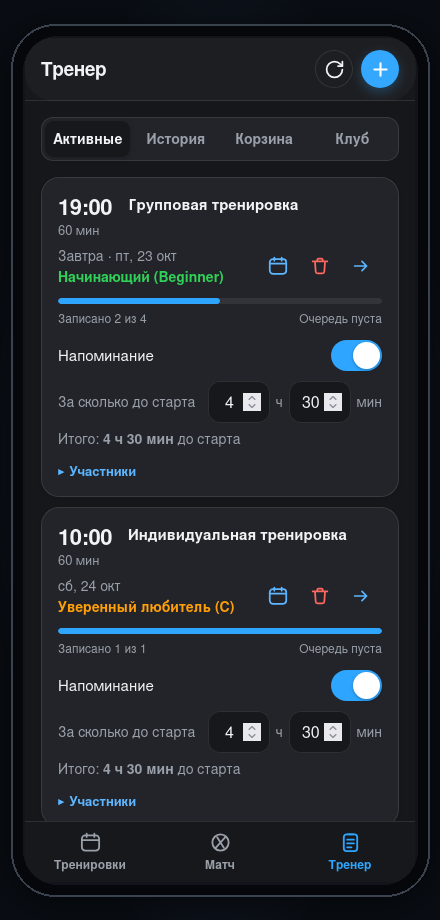
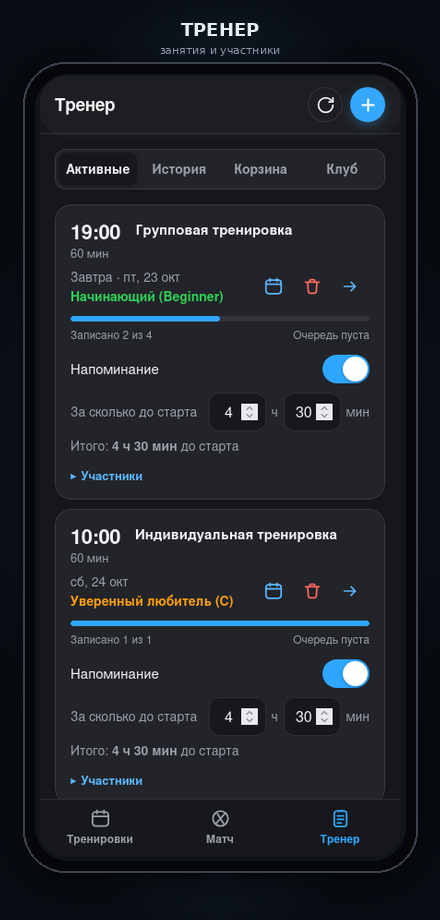
feat: add branded loading screen with squash quotes; polish screenshots

diff --git a/app/templates/base.html b/app/templates/base.html
@@ -50,6 +50,31 @@
     }
     .app { max-width: 520px; margin: 0 auto; min-height: 100vh; min-height: 100dvh; }
 
+    /* ===== Стартовый экран загрузки ===== */
+    .app-loader {
+      position: fixed; inset: 0; z-index: 100;
+      display: flex; flex-direction: column; align-items: center; justify-content: center;
+      gap: 16px; padding: 28px; text-align: center;
+      background: var(--bg); color: var(--text);
+      transition: opacity .3s ease, visibility .3s ease;
+    }
+    .app-loader.is-done { opacity: 0; visibility: hidden; pointer-events: none; }
+    .app-loader__brand {
+      font-size: 13px; font-weight: 800; letter-spacing: .2em;
+      color: var(--hint); text-transform: uppercase;
+    }
+    .app-loader__title { font-size: 20px; font-weight: 700; letter-spacing: -.02em; }
+    .app-loader__hint { max-width: 290px; font-size: 13.5px; line-height: 1.45; color: var(--hint); }
+    .app-loader__quote {
+      max-width: 330px; margin-top: 10px; padding-top: 18px;
+      border-top: 1px solid var(--separator);
+      font-size: 13.5px; line-height: 1.5; color: var(--text);
+    }
+    .app-loader__quote-author {
+      display: block; margin-top: 8px;
+      font-size: 12px; font-weight: 600; color: var(--hint);
+    }
+
     /* ===== Верхняя панель ===== */
     .app-header {
       position: sticky; top: 0; z-index: 20;
@@ -557,6 +582,25 @@
   </style>
 </head>
 <body>
+  <div class="app-loader" id="app-loader" role="status" aria-live="polite">
+    <div class="app-loader__brand">SQASSIT</div>
+    <span class="squash-loader" aria-hidden="true">
+      <svg class="squash-loader__ring" viewBox="0 0 44 44" fill="none">
+        <circle cx="22" cy="22" r="18" stroke="currentColor" stroke-opacity=".16" stroke-width="2"/>
+        <circle cx="22" cy="22" r="18" stroke="#ffd60a" stroke-width="2" stroke-linecap="round" stroke-dasharray="24 89"/>
+      </svg>
+      <span class="squash-loader__ball">
+        <span class="squash-loader__dot"></span>
+        <span class="squash-loader__dot"></span>
+      </span>
+    </span>
+    <div class="app-loader__title">Загружаем данные…</div>
+    <div class="app-loader__hint">Расписание, профиль и матчи — всё уже рядом.</div>
+    <div class="app-loader__quote" id="app-loader-quote" aria-live="polite">
+      <span id="app-loader-quote-text"></span>
+      <span class="app-loader__quote-author" id="app-loader-quote-author"></span>
+    </div>
+  </div>
   <div class="app">
     <header class="app-header">
       <h1 class="app-title">{% block header %}Сквош{% endblock %}</h1>
@@ -986,6 +1030,63 @@
         if (href === path || (href === '/' && path === '')) a.classList.add('is-active');
       });
     })();
+
+    // Проверенные короткие цитаты профессиональных игроков.
+    // Nicol David — Commonwealth Sport:
+    // https://www.commonwealthsport.com/news/4419908/where-are-they-now-nicol-david
+    // Ramy Ashour — Squash Player:
+    // https://squashplayermagazine.tumblr.com/post/64939226175/ramy-ashour-exclusive-egyptian-at-heart-of
+    // Ali Farag — World Squash:
+    // https://www.worldsquash.sport/squash-has-got-everything-world-no-1-ali-farag-on-squashs-olympic-inclusion/
+    // Mohamed ElShorbagy — SquashMad:
+    // https://squashmad.com/interviews/mohamed-elshorbagy-i-still-have-hunger-to-compete-with-squash-top-order/
+    const SQUASH_QUOTES = [
+      {
+        text: 'The Games gave me the belief that I could represent my country at the highest level. I hope to pass that feeling on to young athletes.',
+        author: 'Nicol David · Commonwealth Sport',
+      },
+      {
+        text: 'I want to show the squash world that you can be creative.',
+        author: 'Ramy Ashour · Squash Player',
+      },
+      {
+        text: "Squash has got everything. It's got all the skill sets you need. The stamina, the endurance, the technical ability, the mental challenge.",
+        author: 'Ali Farag · World Squash',
+      },
+      {
+        text: 'I still have hunger to compete with squash top order.',
+        author: 'Mohamed ElShorbagy · SquashMad',
+      },
+    ];
+    let quoteTimer = null;
+    let quoteIndex = Math.floor(Math.random() * SQUASH_QUOTES.length);
+    function showLoaderQuote() {
+      const text = document.getElementById('app-loader-quote-text');
+      const author = document.getElementById('app-loader-quote-author');
+      if (!text || !author) return;
+      const quote = SQUASH_QUOTES[quoteIndex % SQUASH_QUOTES.length];
+      text.textContent = '«' + quote.text + '»';
+      author.textContent = '— ' + quote.author;
+      quoteIndex++;
+    }
+    showLoaderQuote();
+    quoteTimer = setInterval(showLoaderQuote, 6500);
+
+    // Стартовый экран: прячем после первичной загрузки данных страницы.
+    const appLoaderStartedAt = Date.now();
+    function hideAppLoader() {
+      const loader = document.getElementById('app-loader');
+      if (!loader || loader.classList.contains('is-done')) return;
+      const delay = Math.max(0, 800 - (Date.now() - appLoaderStartedAt));
+      setTimeout(() => {
+        if (quoteTimer) clearInterval(quoteTimer);
+        loader.classList.add('is-done');
+        setTimeout(() => loader.remove(), 350);
+      }, delay);
+    }
+    window.hideAppLoader = hideAppLoader;
+    // Страховка: даже при сбое страничного скрипта не оставляем пустой экран.
+    setTimeout(hideAppLoader, 12000);
 
     // Общий профиль. Вкладка «Тренер» видна всем: игрок может оставить заявку.
     const APP = {

diff --git a/app/templates/coach.html b/app/templates/coach.html
@@ -1187,22 +1187,26 @@ window.PAGE_REFRESH = async () => {
 (async () => {
   await APP.ready;
   const me = APP.me;
-  if (!me) return;
+  if (!me) {
+    hideAppLoader();
+    return;
+  }
   applyRoleUi(me);
 
-  if (me.is_coach) {
-    loadView();
-    whenVisible('players-section', loadPlayers);
-    whenVisible('profile-section', loadProfile);
-    if (IS_MANAGER) {
-      // Реестр тренеров — маленький запрос. Грузим его сразу, а не ждём
-      // пересечения с viewport: иначе раздел выглядит пустым при скролле.
-      loadApplications();
-      document.getElementById('coaches-section').hidden = false;
-      loadCoaches();
+  try {
+    if (me.is_coach) {
+      const jobs = [loadView(), loadPlayers(), loadProfile()];
+      if (IS_MANAGER) {
+        // Реестр тренеров грузим сразу, не дожидаясь скролла.
+        document.getElementById('coaches-section').hidden = false;
+        jobs.push(loadApplications(), loadCoaches());
+      }
+      await Promise.allSettled(jobs);
+    } else {
+      await loadApplyStatus();
     }
-  } else {
-    loadApplyStatus();
+  } finally {
+    hideAppLoader();
   }
 })();
 </script>

diff --git a/app/templates/match.html b/app/templates/match.html
@@ -283,9 +283,16 @@ matchForm.addEventListener('submit', async (ev) => {
 window.PAGE_REFRESH = loadMatches;
 (async () => {
   await APP.ready;
-  if (!APP.me) return;
+  if (!APP.me) {
+    hideAppLoader();
+    return;
+  }
   document.getElementById('match-add').hidden = false;
-  loadMatches();
+  try {
+    await loadMatches();
+  } finally {
+    hideAppLoader();
+  }
 })();
 </script>
 {% endblock %}

diff --git a/app/templates/index.html b/app/templates/index.html
@@ -488,7 +488,9 @@ window.PAGE_REFRESH = async () => {
   await Promise.all([loadProfile(), loadSchedule()]);
 };
 
-loadProfile().then(maybeShowOnboarding);
-loadSchedule();
+Promise.allSettled([loadProfile(), loadSchedule()]).then(() => {
+  hideAppLoader();
+  setTimeout(maybeShowOnboarding, 350);
+});
 </script>
 {% endblock %}

diff --git a/tests/test_bot_handlers.py b/tests/test_bot_handlers.py
@@ -80,7 +80,7 @@ def test_web_app_url_keeps_existing_query(monkeypatch):
         "settings",
         replace(settings, webhook_base_url="https://example.test/app?x=1"),
     )
-    assert botmod._web_app_url() == "https://example.test/app?x=1&v=14"
+    assert botmod._web_app_url() == "https://example.test/app?x=1&v=15"
 
 
 def test_web_app_url_falls_back_to_telegram(monkeypatch):
@@ -127,7 +127,7 @@ def test_cmd_start_escapes_name_and_hides_id(monkeypatch):
     assert "&lt;Иван&gt;" in text
     assert "<Иван>" not in text
     assert "1001" not in text
-    assert markup.inline_keyboard[0][0].web_app.url.endswith("?v=14")
+    assert markup.inline_keyboard[0][0].web_app.url.endswith("?v=15")
     assert calls["user"]["telegram_id"] == 1001
 
 
@@ -314,7 +314,7 @@ def test_fallback_opens_web_app(monkeypatch):
     asyncio.run(botmod.fallback(message))
     text, markup = answers[0]
     assert "Открой приложение" in text
-    assert markup.inline_keyboard[0][0].web_app.url.endswith("?v=14")
+    assert markup.inline_keyboard[0][0].web_app.url.endswith("?v=15")
 
 
 def test_cache_avatar_uses_largest_photo(monkeypatch):
@@ -616,7 +616,7 @@ def test_bot_main_keyboard_slot_label_and_names(monkeypatch):
         replace(settings, webhook_base_url="https://example.test"),
     )
     keyboard = botmod._main_keyboard()
-    assert keyboard.inline_keyboard[0][0].web_app.url.endswith("?v=14")
+    assert keyboard.inline_keyboard[0][0].web_app.url.endswith("?v=15")
     assert keyboard.inline_keyboard[1][0].callback_data == "slots:list"
     assert keyboard.inline_keyboard[1][1].callback_data == "attendees:list"
     label = botmod._slot_label(_training())

diff --git a/tests/test_app.py b/tests/test_app.py
@@ -1072,6 +1072,10 @@ def test_refresh_and_responsive_ui_contract(client):
         assert "max-width: 220px" in page.text
         assert "prefers-reduced-motion" in page.text
         assert "squash-loader__ball" in page.text
+        assert 'id="app-loader"' in page.text
+        assert "hideAppLoader" in page.text
+        assert "SQUASH_QUOTES" in page.text
+        assert "Nicol David" in page.text
 
     # Обновление расписания должно убирать старые карточки и empty-state.
     assert "Object.keys(ITEMS).forEach" in player.text

diff --git a/app/bot.py b/app/bot.py
@@ -54,7 +54,7 @@ class PendingReplyFilter(BaseFilter):
         return True
 
 
-WEB_APP_VERSION = "14"
+WEB_APP_VERSION = "15"
 
 
 def _web_app_url() -> str:

diff --git a/README.md b/README.md
@@ -12,24 +12,20 @@ Python 3.11+ · FastAPI · aiogram 3 · SQLite
 <table width="100%">
 <tr>
 <td width="48%" align="center" valign="top">
-  <a href="docs/screenshots/player.png"><img src="docs/screenshots/player.png" alt="Расписание игрока" width="100%"></a><br>
-  <sub><b>Игрок</b> · расписание и запись</sub>
+  <a href="docs/screenshots/player.png"><img src="docs/screenshots/player.png" alt="Игрок · расписание и запись" width="100%"></a>
 </td>
 <td width="4%"></td>
 <td width="48%" align="center" valign="top">
-  <a href="docs/screenshots/match.png"><img src="docs/screenshots/match.png" alt="Матчи игроков" width="100%"></a><br>
-  <sub><b>Матч</b> · свои игровые встречи</sub>
+  <a href="docs/screenshots/match.png"><img src="docs/screenshots/match.png" alt="Матч · свои игровые встречи" width="100%"></a>
 </td>
 </tr>
 <tr>
 <td width="48%" align="center" valign="top">
-  <a href="docs/screenshots/profile.png"><img src="docs/screenshots/profile.png" alt="Публичный профиль игрока" width="100%"></a><br>
-  <sub><b>Профиль</b> · публичная карточка игрока</sub>
+  <a href="docs/screenshots/profile.png"><img src="docs/screenshots/profile.png" alt="Профиль · публичная карточка игрока" width="100%"></a>
 </td>
 <td width="4%"></td>
 <td width="48%" align="center" valign="top">
-  <a href="docs/screenshots/coach.png"><img src="docs/screenshots/coach.png" alt="Панель тренера" width="100%"></a><br>
-  <sub><b>Тренер</b> · занятия и участники</sub>
+  <a href="docs/screenshots/coach.png"><img src="docs/screenshots/coach.png" alt="Тренер · занятия и участники" width="100%"></a>
 </td>
 </tr>
 </table>

diff --git a/CHANGELOG.md b/CHANGELOG.md
@@ -3,6 +3,19 @@
 Все значимые изменения проекта. Формат — [Keep a Changelog](https://keepachangelog.com/ru/1.1.0/),
 версии — [SemVer](https://semver.org/lang/ru/).
 
+## [1.3.3] — 2026-10-22
+
+### Добавлено
+- Стартовый экран загрузки: пользователь видит, что приложение работает, пока
+  подгружаются расписание, профиль, матчи и данные панели тренера.
+- Экран скрывается после первичной загрузки и имеет страховочный таймаут.
+- На экране загрузки показываются проверенные цитаты профессиональных
+  сквош-игроков с указанием источника.
+
+### Изменено
+- README: четыре отдельные карточки в едином стиле с тёмным фоном, подписями
+  и кликабельными оригиналами.
+
 ## [1.3.2] — 2026-10-22
 
 ### Добавлено
